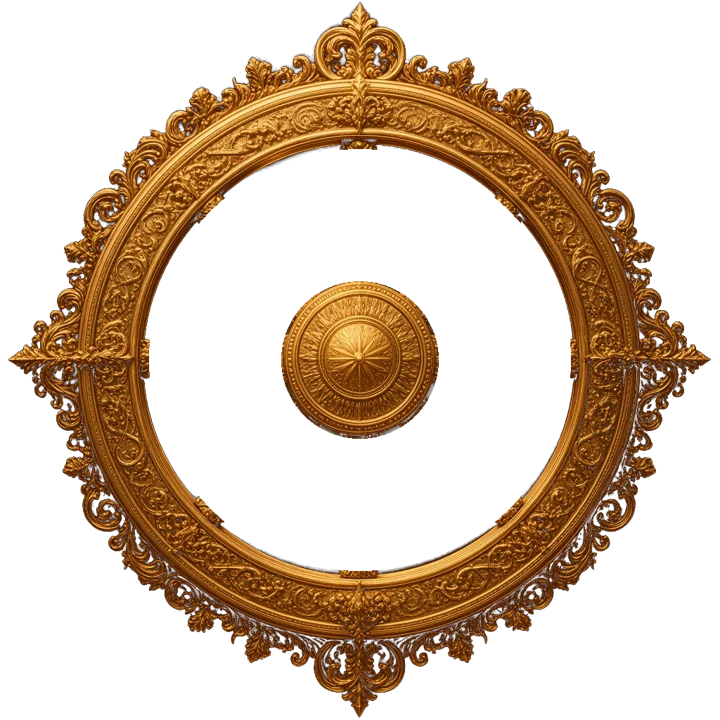
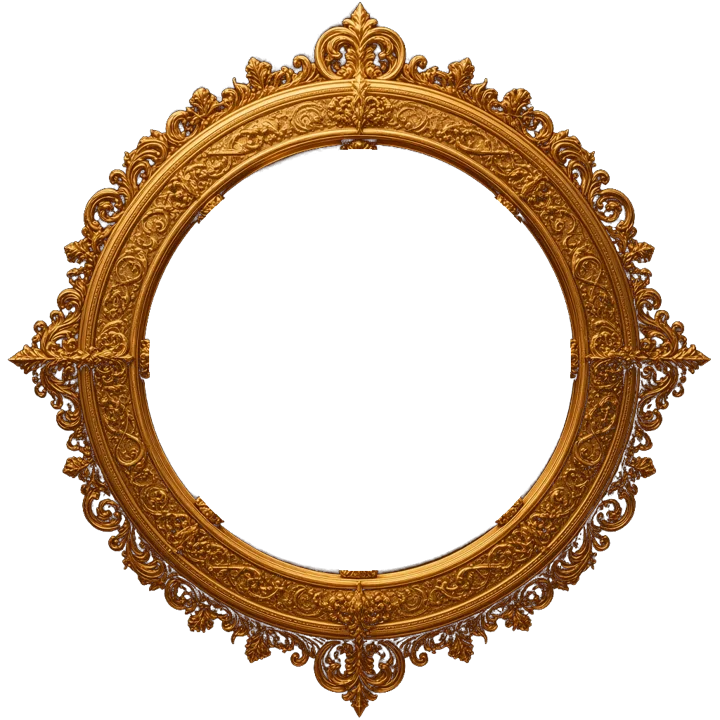
Game: low warm sounds, elder arrow, wheel numbers/art/shuffle, finale

Changed region(s): [[0.3667, 0.3667, 0.6111, 0.6111]]

diff --git a/game/wheel.html b/game/wheel.html
@@ -32,43 +32,48 @@ h1{margin:0;text-align:center;font:700 clamp(26px,4vh,34px) 'Cormorant Garamond'
 .lbl{text-align:center;font:700 11px Manrope;letter-spacing:.22em;text-transform:uppercase;color:#2a1606;background:linear-gradient(#ffe3a0,#d9a54e);border-radius:999px;padding:3px 12px;align-self:center;margin-bottom:4px}
 h1{letter-spacing:.08em}
 .cd span{font-size:clamp(12.5px,1.85vh,15px)!important;padding-top:22%!important}
-nav a.on,.gnav a.on,a.on{animation:tg 1.8s infinite}a.on .i,a.on svg{filter:drop-shadow(0 0 6px #ffcf70) drop-shadow(0 0 12px #ffb040)}
-@keyframes tg{0%,100%{text-shadow:0 0 4px #ffcf70}50%{text-shadow:0 0 14px #ffcf70,0 0 22px #ffb040}}
+.num{font:700 15px 'Cormorant Garamond',serif;fill:#e9c98a;opacity:.75;transition:fill .5s,opacity .5s}
+.num.cur{fill:#fff6d8;opacity:1;font-size:19px;filter:drop-shadow(0 0 3px #ffb347)}
+.sec.cur{fill-opacity:.22}
+.wh{pointer-events:none;z-index:0}.top{z-index:2}
+.wh.gone{transition:transform 2.4s cubic-bezier(.5,0,.8,.4),opacity 2.4s;transform:translate(-50%,110%) scale(.7);opacity:0}
+.wh.gone .rot{transition:transform 2.4s cubic-bezier(.3,0,.6,1)!important}
+.fin{position:absolute;left:0;right:0;top:0;bottom:0;display:flex;flex-direction:column;align-items:center;justify-content:center;gap:28px;opacity:0;transition:opacity 1.2s;pointer-events:none}
+.fin.on{opacity:1;pointer-events:auto}.fin p{margin:0 24px;text-align:center;font:600 clamp(24px,3.6vh,30px)/1.25 'Cormorant Garamond',serif;color:#ffe9b8;text-shadow:0 0 14px rgba(255,190,90,.45)}
 </style></head><body data-page="task">
 <div class="scr">
 <div class="top" id="top"><div class="lbl">Первое задание</div><h1>ВЫБЕРИТЕ КАРТУ</h1><div class="st" id="st"></div><p class="q" id="q"></p><div class="cards" id="cards"></div></div>
-<div class="res" id="res"></div>
-<div class="wh" id="wh"><div class="rot" id="rot"><svg viewBox="-100 -100 200 200" id="sv"><defs><radialGradient id="wd"><stop offset="0" stop-color="#3a2410"/><stop offset="1" stop-color="#140c06"/></radialGradient><linearGradient id="sp" x1="0" y1="0" x2="1" y2="0"><stop offset="0" stop-color="#9a6226"/><stop offset=".5" stop-color="#ffe7a6"/><stop offset="1" stop-color="#9a6226"/></linearGradient></defs><circle r="60" fill="url(#wd)"/></svg><img src="img/wheel.webp?v=2" alt=""></div></div>
+<div class="fin" id="fin"><p>Колесо запомнило ваш путь.</p><button class="bt" id="nx" type="button">Далее</button></div>
+<div class="wh" id="wh"><div class="rot" id="rot"><svg viewBox="-100 -100 200 200" id="sv"><defs><radialGradient id="wd"><stop offset="0" stop-color="#3a2410"/><stop offset="1" stop-color="#140c06"/></radialGradient><linearGradient id="sp" x1="0" y1="0" x2="1" y2="0"><stop offset="0" stop-color="#9a6226"/><stop offset=".5" stop-color="#ffe7a6"/><stop offset="1" stop-color="#9a6226"/></linearGradient></defs></defs><defs><radialGradient id="hb" cx=".4" cy=".35"><stop offset="0" stop-color="#fff0b8"/><stop offset=".6" stop-color="#d9a04a"/><stop offset="1" stop-color="#8a5420"/></radialGradient></defs><circle r="60" fill="url(#wd)"/></svg><img src="img/wheel.webp?v=3" alt=""></div></div>
 </div>
 <script src="nav.js"></script>
 <script>
-var S=[["Срочная задача", "Появилась новая рабочая или личная задача, дедлайн — сегодня же.", ["Карта-вспышка: дорога горит под ногами, путь виден лишь на шаг вперед.", "Карта в тумане: горы проступают постепенно, каждый перевал нужно разглядеть.", "Чистый пергамент: дорогу еще предстоит начертить своей рукой.", "Карта чужих костров: путь виден по тем, кто идет рядом."]],
-["Внезапное внимание", "Вас неожиданно спросили или вызвали на обсуждение при других людях, когда вы этого не ждали.", ["Карта-молния: тропа вспыхивает сразу, без пауз и сомнений.", "Карта с дозорной башней: сначала обзор с высоты, потом точный шаг.", "Карта новой звезды: свой ориентир среди чужих созвездий.", "Карта-зеркало: дорога отражает взгляды тех, кто смотрит."]],
-["Рождение идеи", "В голове вспыхнула классная идея, но делать ее прямо сейчас еще рано или нет ресурсов.", ["Карта-искра: огонь уже бежит по фитилю дороги.", "Карта под луной: идея зреет в тишине, путь проявится позже.", "Карта-чертеж: контуры будущего города уже на бумаге.", "Карта на общем столе: путь, который рисуют вместе."]],
-["Поломка порядка", "Что-то неожиданно сломалось в привычном порядке или расписании дня.", ["Карта разрушенного моста: переправа из того, что под рукой.", "Карта после бури: дождаться, пока осядет пыль, и найти брод.", "Карта новых земель: старая дорога рухнула — проложить свою.", "Карта каравана: идти в общем темпе, за ведущим."]],
-["Дефицит данных", "Нужно сделать выбор, а надежных данных или гарантий катастрофически мало.", ["Карта белых пятен: шаг в неизвестность на зов сердца.", "Карта из крупиц: каждый клочок земли собран терпеливо.", "Карта собственных законов: компас, настроенный вами.", "Карта старых мастеров: проверенный путь, отмеченный мудрыми."]],
-["Игнорирование отклика", "Вас не заметили, не оценили или проигнорировали там, где вы ждали отклика.", ["Карта сигнального огня: громко заявить о себе с вершины.", "Карта тихой долины: отойти в тень и смотреть со стороны.", "Карта своей мастерской: важно лишь то, что создаете вы.", "Карта чужих троп: найти, где свернул не туда, и выровнять шаг."]]];
+var S=[["Срочная задача", "Появилась новая рабочая или личная задача, дедлайн — сегодня же.", ["Карта-вспышка: дорога горит под ногами, путь виден лишь на шаг вперед.", "Карта в тумане: горы проступают постепенно, каждый перевал нужно разглядеть.", "Чистый пергамент: дорогу еще предстоит начертить своей рукой.", "Карта чужих костров: путь виден по тем, кто идет рядом."]], ["Внезапное внимание", "Вас неожиданно спросили или вызвали на обсуждение при других людях, когда вы этого не ждали.", ["Молния: ответ вспыхивает сразу, без пауз и сомнений.", "Дозорная башня: сначала обзор с высоты, потом точное слово.", "Новая звезда: свой ориентир среди чужих созвездий.", "Зеркало: слова отражают взгляды тех, кто смотрит."]], ["Рождение идеи", "В голове вспыхнула классная идея, но делать ее прямо сейчас еще рано или нет ресурсов.", ["Искра: огонь уже бежит по фитилю.", "Луна над садом: замысел зреет в тишине и проявится позже.", "Чертеж: контуры будущего города уже на бумаге.", "Общий стол: замысел, который рассматривают вместе."]], ["Поломка порядка", "Что-то неожиданно сломалось в привычном порядке или расписании дня.", ["Разрушенный мост: переправа из того, что под рукой.", "После бури: дождаться, пока осядет пыль, и найти брод.", "Новые земли: старая дорога рухнула — проложить свою.", "Караван: идти в общем темпе, за ведущим."]], ["Дефицит данных", "Нужно сделать выбор, а надежных данных или гарантий катастрофически мало.", ["Обрыв в туман: шаг в неизвестность на зов сердца.", "Крупицы: каждое зерно знания собрано терпеливо.", "Свой компас: стрелка, настроенная вашими законами.", "Тропа мастеров: проверенный путь, освещенный мудрыми."]], ["Игнорирование отклика", "Вас не заметили, не оценили или проигнорировали там, где вы ждали отклика.", ["Сигнальный огонь: громко заявить о себе с вершины.", "Тихая долина: отойти в тень и смотреть со стороны.", "Мастерская: важно лишь то, что создаете вы.", "Чужие следы: найти, где свернул не туда, и выровнять шаг."]]];
 var K=['s','n','str','z'],NM={s:'Реактивный (Сразу делать)',n:'Наблюдательный (Сначала смотреть)',str:'Созидательный (Строить свое)',z:'Переходный (Зависит от того, кто рядом)'};
 var sc={s:0,n:0,str:0,z:0},cur=0,busy=false,ang=0,AC;
 var sv=document.getElementById('sv');
-for(var i=0;i<6;i++){var a0=(i*60-120)*Math.PI/180,a1=a0+Math.PI/3,r=59,am=(i*60-90)*Math.PI/180;
-sv.insertAdjacentHTML('beforeend','<path class="sec" id="sec'+i+'" d="M0 0L'+(r*Math.cos(a0)).toFixed(2)+' '+(r*Math.sin(a0)).toFixed(2)+'A'+r+' '+r+' 0 0 1 '+(r*Math.cos(a1)).toFixed(2)+' '+(r*Math.sin(a1)).toFixed(2)+'Z"/>')}
-for(var i=0;i<6;i++){sv.insertAdjacentHTML('beforeend','<g transform="rotate('+(i*60-120)+')"><rect x="18" y="-3.2" width="44" height="6.4" rx="1.5" fill="url(#sp)" stroke="#6b4012" stroke-width=".5"/><circle cx="40" cy="0" r="2.2" fill="#ffefc0"/></g>')}
-function tick(){try{AC=AC||new(window.AudioContext||window.webkitAudioContext)();var t=AC.currentTime;[1320,1760,2640].forEach(function(f,i){var o=AC.createOscillator(),g=AC.createGain();o.type='sine';o.frequency.value=f;g.gain.setValueAtTime(0,t+i*.07);g.gain.linearRampToValueAtTime(.12,t+i*.07+.01);g.gain.exponentialRampToValueAtTime(.001,t+i*.07+.6);o.connect(g).connect(AC.destination);o.start(t+i*.07);o.stop(t+i*.07+.7)})}catch(e){}}
+var R=58.6;for(var i=0;i<6;i++){var a0=(i*60-120)*Math.PI/180,a1=a0+Math.PI/3;
+sv.insertAdjacentHTML('beforeend','<path class="sec" id="sec'+i+'" d="M0 0L'+(R*Math.cos(a0)).toFixed(3)+' '+(R*Math.sin(a0)).toFixed(3)+'A'+R+' '+R+' 0 0 1 '+(R*Math.cos(a1)).toFixed(3)+' '+(R*Math.sin(a1)).toFixed(3)+'Z"/>')}
+for(var i=0;i<6;i++){sv.insertAdjacentHTML('beforeend','<g transform="rotate('+(i*60-120)+')"><rect x="15" y="-2.6" width="45" height="5.2" rx="1.2" fill="url(#sp)" stroke="#6b4012" stroke-width=".4"/></g>')}
+for(var i=0;i<6;i++){sv.insertAdjacentHTML('beforeend','<g transform="rotate('+(i*60)+')"><text class="num" id="num'+i+'" x="0" y="-37" text-anchor="middle" dominant-baseline="central">'+(i+1)+'</text></g>')}
+sv.insertAdjacentHTML('beforeend','<circle r="15" fill="url(#hb)" stroke="#ffe7a6" stroke-width="1.6"/><circle r="10" fill="none" stroke="#7a4a16" stroke-width=".8"/><circle r="4" fill="#fff1c4"/>');
+function tick(){try{AC=AC||new(window.AudioContext||window.webkitAudioContext)();var t=AC.currentTime,lp=AC.createBiquadFilter();lp.type='lowpass';lp.frequency.value=700;lp.connect(AC.destination);[[110,.22],[164.8,.12],[220.5,.06]].forEach(function(p){var o=AC.createOscillator(),g=AC.createGain();o.type='sine';o.frequency.value=p[0];g.gain.setValueAtTime(0,t);g.gain.linearRampToValueAtTime(p[1],t+.06);g.gain.exponentialRampToValueAtTime(.0001,t+1.6);o.connect(g);g.connect(lp);o.start(t);o.stop(t+1.7)})}catch(e){}}
+var ORD=[[0,1,2,3],[2,0,3,1],[1,3,0,2],[3,2,1,0],[2,3,1,0],[1,0,3,2]];
 function show(){var s=S[cur];document.getElementById('st').textContent='Ситуация '+(cur+1)+' из 6 · '+s[0];document.getElementById('q').textContent='«'+s[1]+'»';
-document.getElementById('cards').innerHTML=s[2].map(function(t,i){return '<button class="cd" type="button" data-k="'+K[i]+'" style="background-image:url(img/card_'+K[i]+'.jpg)"><span>'+t+'</span></button>'}).join('')}
+document.querySelectorAll('.num,.sec').forEach(function(n){n.classList.remove('cur')});document.getElementById('num'+cur).classList.add('cur');document.getElementById('sec'+cur).classList.add('cur');
+document.getElementById('cards').innerHTML=ORD[cur].map(function(i){return '<button class="cd" type="button" data-k="'+K[i]+'" style="background-image:url(img/c'+(cur+1)+'_'+K[i]+'.jpg)"><span>'+s[2][i]+'</span></button>'}).join('')}
 document.getElementById('cards').onclick=function(e){var b=e.target.closest('.cd');if(!b||busy)return;busy=true;b.classList.add('pick');sc[b.dataset.k]++;
 document.getElementById('sec'+cur).classList.add('on');ang-=60;document.getElementById('rot').style.transform='rotate('+ang+'deg)';tick();
 var top=document.getElementById('top');setTimeout(function(){top.classList.add('out')},350);
 setTimeout(function(){cur++;if(cur<6){show();top.classList.remove('out');busy=false}else finish()},850)};
-function finish(){document.getElementById('top').style.display='none';document.getElementById('wh').classList.add('all');
+function finish(){document.getElementById('top').style.display='none';document.querySelectorAll('.num').forEach(function(n){n.classList.remove('cur')});
 var o=K.slice().sort(function(a,b){return sc[b]-sc[a]}),lead=sc[o[0]]-sc[o[1]]>=2,key=lead?o[0]:'z',
-title=lead?'Основной почерк действия: '+NM[key]:'Переходный (Размазанность / арсенал гибких реакций)',
-sub=lead?'Этот навык закреплен в вашем Паспорте Героя.':'Сильнее всего: '+NM[o[0]].replace(/.*\(|\)/g,'')+' и '+NM[o[1]].replace(/.*\(|\)/g,'')+'.';
+title=lead?'Основной почерк действия: '+NM[key]:'Переходный (Размазанность / арсенал гибких реакций)';
 var P={};try{P=JSON.parse(localStorage.getItem('alch_profile'))||{}}catch(e){}
 P.skill={key:key,title:title,scores:sc,top:lead?[o[0]]:[o[0],o[1]]};localStorage.setItem('alch_profile',JSON.stringify(P));
-var r=document.getElementById('res');r.innerHTML='<div class="big" style="background-image:url(img/card_'+key+'.jpg)"></div><div class="t">'+title+'</div><div class="s">'+sub+'</div><button class="bt" id="nx" type="button">Далее</button>';
-r.style.display='flex';setTimeout(function(){r.classList.add('on')},50);
-document.getElementById('nx').onclick=function(){var t=document.querySelector('.gtoast');t.textContent='Дальше — Хранитель Прошлого';gToast();setTimeout(function(){t.textContent='Скоро откроется'},1700)}}
+var w=document.getElementById('wh'),r=document.getElementById('rot');w.classList.add('all');
+setTimeout(function(){tick();setTimeout(tick,500);r.style.transform='rotate('+(ang-1080)+'deg)';w.classList.add('gone')},700);
+setTimeout(function(){document.getElementById('fin').classList.add('on')},2900);
+document.getElementById('nx').onclick=function(){location.href='map.html'}}
 show();
 </script></body></html>

diff --git a/game/elder.html b/game/elder.html
@@ -10,20 +10,22 @@ html,body{margin:0;height:100%;overflow:hidden;background:#000;color:#f4ecdf}
 @keyframes in{from{opacity:0;filter:brightness(3)}to{opacity:1;filter:none}}
 .sc video,.sc img{position:absolute;inset:0;width:100%;height:100%;object-fit:cover;object-position:40% 30%}
 .sc:after{content:"";position:absolute;inset:0;background:linear-gradient(rgba(0,0,0,0) 35%,rgba(0,0,0,.55) 58%,rgba(0,0,0,.92))}
-.tx{position:absolute;z-index:2;left:22px;right:22px;bottom:clamp(150px,22vh,190px);text-align:center}
+.tx{position:absolute;z-index:2;left:22px;right:22px;bottom:clamp(170px,25vh,210px);text-align:center}
 .tx p{margin:0 0 .35em;font:600 clamp(24px,3.8vh,32px)/1.18 'Cormorant Garamond',serif;color:#fbe6b4;text-shadow:0 2px 10px #000;opacity:0;transform:translateY(10px);transition:opacity 1.2s,transform 1.2s}
 .tx p.on{opacity:1;transform:none}
-.nx{position:absolute;z-index:2;left:50%;bottom:clamp(44px,7vh,64px);transform:translateX(-50%);width:70%;height:54px;border-radius:999px;border:2px solid #f5dca0;background:radial-gradient(ellipse at 50% 30%,#fff1c8,#e2b45e 55%,#9a6a28);color:#2a1606;font:700 24px 'Cormorant Garamond',serif;opacity:0;transition:opacity 1s;cursor:pointer}
+.nx{position:absolute;z-index:2;left:50%;bottom:calc(clamp(30px,5vh,48px) + 66px);transform:translateX(-50%);width:70%;height:54px;border-radius:999px;border:2px solid #f5dca0;background:radial-gradient(ellipse at 50% 30%,#fff1c8,#e2b45e 55%,#9a6a28);color:#2a1606;font:700 24px 'Cormorant Garamond',serif;opacity:0;transition:opacity 1s;cursor:pointer}
 .nx.on{opacity:1}
-.snd{position:absolute;z-index:3;right:16%;bottom:calc(clamp(44px,7vh,64px) + 64px);width:46px;height:46px;border-radius:50%;border:2px solid #d9b46a;background:rgba(20,12,6,.65);color:#cbb68e;font-size:20px;display:flex;align-items:center;justify-content:center;padding:0;cursor:pointer;transition:.3s}
+.snd{position:absolute;z-index:3;right:calc(16% + 58px);bottom:clamp(30px,5vh,48px);width:46px;height:46px;border-radius:50%;border:2px solid #d9b46a;background:rgba(20,12,6,.65);color:#cbb68e;font-size:20px;display:flex;align-items:center;justify-content:center;padding:0;cursor:pointer;transition:.3s}
 .snd.on{background:radial-gradient(#fff1c8,#d9a54e);color:#2a1606;box-shadow:0 0 16px rgba(255,205,120,.8)}
-.snd svg{width:24px;height:24px}
+.arr{position:absolute;z-index:3;right:16%;bottom:clamp(30px,5vh,48px);width:46px;height:46px;border-radius:50%;border:2px solid #d9b46a;background:radial-gradient(#fff1c8,#d9a54e);color:#2a1606;display:flex;align-items:center;justify-content:center;padding:0;cursor:pointer;box-shadow:0 0 12px rgba(255,205,120,.6)}
+.arr svg,.snd svg{width:24px;height:24px}
 .ztm{position:fixed;inset:0;z-index:65;background:#000;opacity:0;pointer-events:none;transition:opacity 1.6s}.ztm.on{opacity:1}
 </style></head><body data-page="elder">
 <div class="sc">
 <video id="v" src="media/elder.mp4" poster="img/elder.jpg" autoplay muted playsinline></video>
 <button class="snd" id="snd" type="button" aria-label="Озвучка" aria-pressed="false"><svg viewBox="0 0 24 24" fill="none" stroke="currentColor" stroke-width="2" stroke-linecap="round"><path d="M4 9h4l5-4v14l-5-4H4z" fill="currentColor"/><path id="sw" d="M17 9l4 6M21 9l-4 6"/></svg></button>
 <div class="tx" id="tx"><p>Вот ваш мир.</p><p>По праву рождения, которое дали вам высшие силы,</p><p>и все здесь для вас.</p></div>
+<button class="arr" id="arr" type="button" aria-label="Следующий шаг"><svg viewBox="0 0 24 24" fill="none" stroke="currentColor" stroke-width="2.4" stroke-linecap="round" stroke-linejoin="round"><path d="M5 12h13M13 6l6 6-6 6"/></svg></button>
 <button class="nx" id="nx" type="button">Далее</button>
 </div>
 <div class="ztm" id="ztm"></div>
@@ -32,7 +34,7 @@ html,body{margin:0;height:100%;overflow:hidden;background:#000;color:#f4ecdf}
 <script>
 var ps=document.querySelectorAll('#tx p');ps.forEach(function(p,i){setTimeout(function(){p.classList.add('on')},1600+i*2000)});
 setTimeout(function(){document.getElementById('nx').classList.add('on')},1600+ps.length*2000);
-document.getElementById('nx').onclick=function(){document.getElementById('ztm').classList.add('on');setTimeout(function(){location.href='wheel.html'},1700)};
+document.getElementById('nx').onclick=document.getElementById('arr').onclick=function(){document.getElementById('ztm').classList.add('on');setTimeout(function(){location.href='wheel.html'},1700)};
 var au=document.getElementById('au');
 document.getElementById('snd').onclick=function(){var b=this,on=!b.classList.contains('on');b.classList.toggle('on',on);b.setAttribute('aria-pressed',on);document.getElementById('sw').setAttribute('d',on?'M16 9a4 4 0 010 6M18.5 6.5a7.5 7.5 0 010 11':'M17 9l4 6M21 9l-4 6');if(on){au.currentTime=0;au.play().catch(function(){})}else au.pause()};
 </script>

diff --git a/game/index.html b/game/index.html
@@ -17,13 +17,10 @@
 <p class="es">коснитесь</p></div></section></main>
 <script>
 const c=document.getElementById('core');let AC;
-function chime(){try{const A=new (window.AudioContext||window.webkitAudioContext)(),t=A.currentTime,out=A.createGain(),lp=A.createBiquadFilter();lp.type='lowpass';lp.frequency.value=3200;
-out.gain.setValueAtTime(0,t);out.gain.linearRampToValueAtTime(.22,t+.25);out.gain.setValueAtTime(.22,t+1.1);out.gain.linearRampToValueAtTime(0,t+2.3);
-const dl=A.createDelay();dl.delayTime.value=.24;const fb=A.createGain();fb.gain.value=.3;dl.connect(fb);fb.connect(dl);out.connect(lp);lp.connect(A.destination);out.connect(dl);dl.connect(lp);
-const tone=(f,st,d,v)=>{const o=A.createOscillator(),g=A.createGain();o.type='sine';o.frequency.value=f;g.gain.setValueAtTime(0,t+st);g.gain.linearRampToValueAtTime(v,t+st+.12);g.gain.exponentialRampToValueAtTime(.0001,t+st+d);o.connect(g);g.connect(out);o.start(t+st);o.stop(t+st+d+.05)};
-tone(220,0,2.2,.10);tone(329.63,0,2.2,.06);
-[440,523.25,659.25,830.61,987.77].forEach((f,i)=>tone(f,.1+i*.13,1.8-i*.1,.09));
-[1760,2093,2489].forEach((f,i)=>tone(f,.6+i*.11,1.1,.025));
+function chime(){try{const A=new (window.AudioContext||window.webkitAudioContext)(),t=A.currentTime,out=A.createGain(),lp=A.createBiquadFilter();lp.type='lowpass';lp.frequency.value=900;lp.Q.value=.5;
+out.gain.setValueAtTime(0,t);out.gain.linearRampToValueAtTime(.32,t+.35);out.gain.setValueAtTime(.32,t+1.2);out.gain.linearRampToValueAtTime(0,t+2.35);out.connect(lp);lp.connect(A.destination);
+const tone=(f,st,d,v,type)=>{const o=A.createOscillator(),g=A.createGain();o.type=type||'sine';o.frequency.value=f;g.gain.setValueAtTime(0,t+st);g.gain.linearRampToValueAtTime(v,t+st+.3);g.gain.exponentialRampToValueAtTime(.0001,t+st+d);o.connect(g);g.connect(out);o.start(t+st);o.stop(t+st+d+.05)};
+tone(98,0,2.3,.32);tone(98.6,0,2.3,.2);tone(146.8,.05,2.2,.14);tone(196,.25,2,.1);tone(270.4,.25,1.8,.05);tone(65.4,0,2.3,.18,'triangle');
 }catch(e){}}
 c.onclick=()=>{if(c.classList.contains('go'))return;try{navigator.vibrate&&navigator.vibrate([18,40,28])}catch(e){}chime();c.classList.add('go');setTimeout(()=>location.href='map.html',2400)};
 </script></body></html>

diff --git a/game/form.html b/game/form.html
@@ -67,6 +67,7 @@ h1{margin:0;text-align:center;font:700 clamp(22px,3.6vh,30px)/1 var(--d);letter-
 .lab small{display:block;font-weight:500;font-size:.78em;color:#efe6d4;letter-spacing:.02em;margin-top:2px}
 .note,.hint,.err{font-family:Manrope,sans-serif!important;font-style:normal!important;font-size:clamp(15px,2vh,17px)!important}
 .gen{gap:10px!important}.flr{flex:none;filter:drop-shadow(0 0 4px rgba(255,200,110,.5))}
+.born{letter-spacing:.08em!important}
 </style></head><body data-page="form">
 <div class="scr"><div class="board">
 <h1 style="margin-top:clamp(10px,2.4vh,26px)">ИНИЦИАЦИЯ АЛХИМИКА</h1><div class="orn"></div>
@@ -77,7 +78,7 @@ h1{margin:0;text-align:center;font:700 clamp(22px,3.6vh,30px)/1 var(--d);letter-
 <div class="gen"><span class="sym">♂</span><button class="md" data-g="m" type="button">М</button><svg class="flr" viewBox="0 0 90 30" width="78" height="26" aria-hidden="true"><g fill="none" stroke="#e0b866" stroke-width="1.4" stroke-linecap="round"><path d="M4 15h22M64 15h22"/><path d="M26 15c4-8 12-8 14-2-3 4-9 3-9-1M64 15c-4-8-12-8-14-2 3 4 9 3 9-1"/><path d="M26 15c4 8 12 8 14 2M64 15c-4 8-12 8-14 2"/></g><path d="M45 8l5 7-5 7-5-7z" fill="#f0cf86"/></svg><button class="md" data-g="f" type="button">Ж</button><span class="sym">♀</span></div>
 <p class="note">Ваши данные — это координаты вашего старта в Мире Алхимии.</p>
 
-<div class="go"><button class="born" type="button" id="next">Рождение героя</button><p class="err" id="er"></p></div></div></div>
+<div class="go"><button class="born" type="button" id="next">РОЖДЕНИЕ ГЕРОЯ</button><p class="err" id="er"></p></div></div></div>
 <div class="flash" id="flash"></div>
 <div class="sheet" id="sheet"><div class="sh" id="shc"></div></div>
 <script src="arcana.js"></script>

diff --git a/game/nav.css b/game/nav.css
@@ -12,3 +12,7 @@
 .gdraw .pn a.cur{color:#a8641a}
 .gtoast{position:fixed;left:50%;bottom:110px;transform:translateX(-50%);background:#4a2c0c;color:#ffe3a0;font:600 15px Manrope,sans-serif;padding:10px 18px;border-radius:20px;opacity:0;transition:.3s;z-index:70;pointer-events:none}
 .gtoast.on{opacity:1}
+.gnav a.on:not(.hero){position:relative;color:#fff0b8;font-weight:800;text-shadow:0 0 8px #ffc04a,0 0 16px rgba(255,170,60,.7)}
+.gnav a.on:not(.hero) .i{transform:scale(1.32) translateY(-4px);filter:drop-shadow(0 0 6px #ffd06a) drop-shadow(0 0 14px #ffa83a);animation:gOn 2s ease-in-out infinite}
+.gnav a.on:not(.hero):before{content:"";position:absolute;left:12%;right:12%;top:2px;bottom:4px;border-radius:14px;background:radial-gradient(ellipse at 50% 40%,rgba(255,210,120,.38),rgba(255,180,80,0) 70%);pointer-events:none}
+@keyframes gOn{0%,100%{filter:drop-shadow(0 0 6px #ffd06a) drop-shadow(0 0 12px #ffa83a)}50%{filter:drop-shadow(0 0 10px #ffe08a) drop-shadow(0 0 22px #ffa83a)}}
